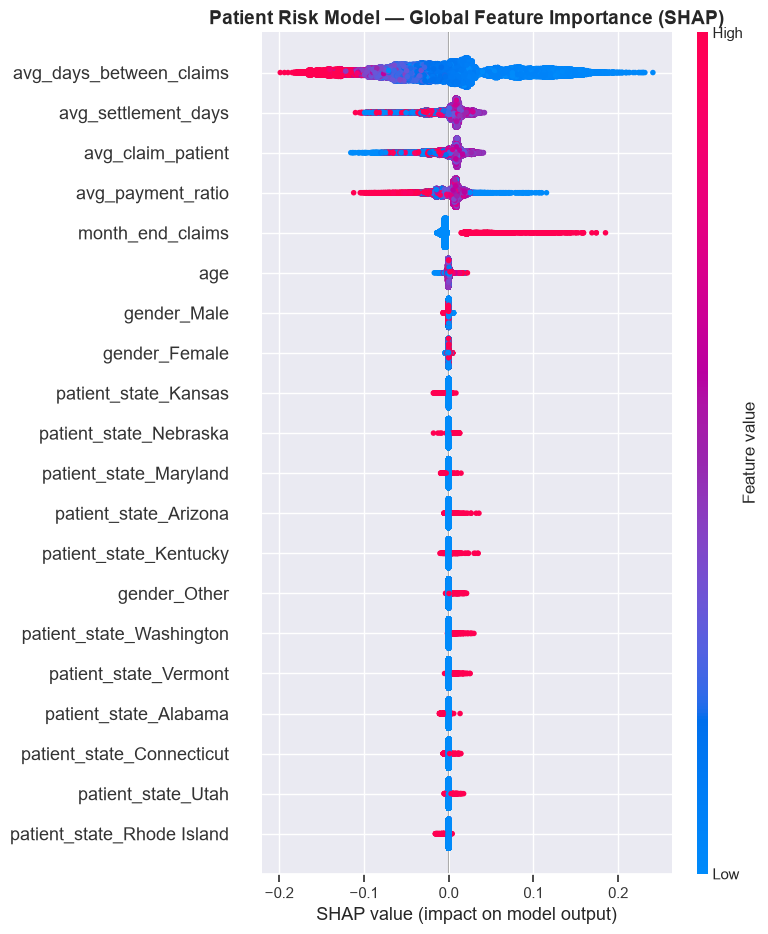
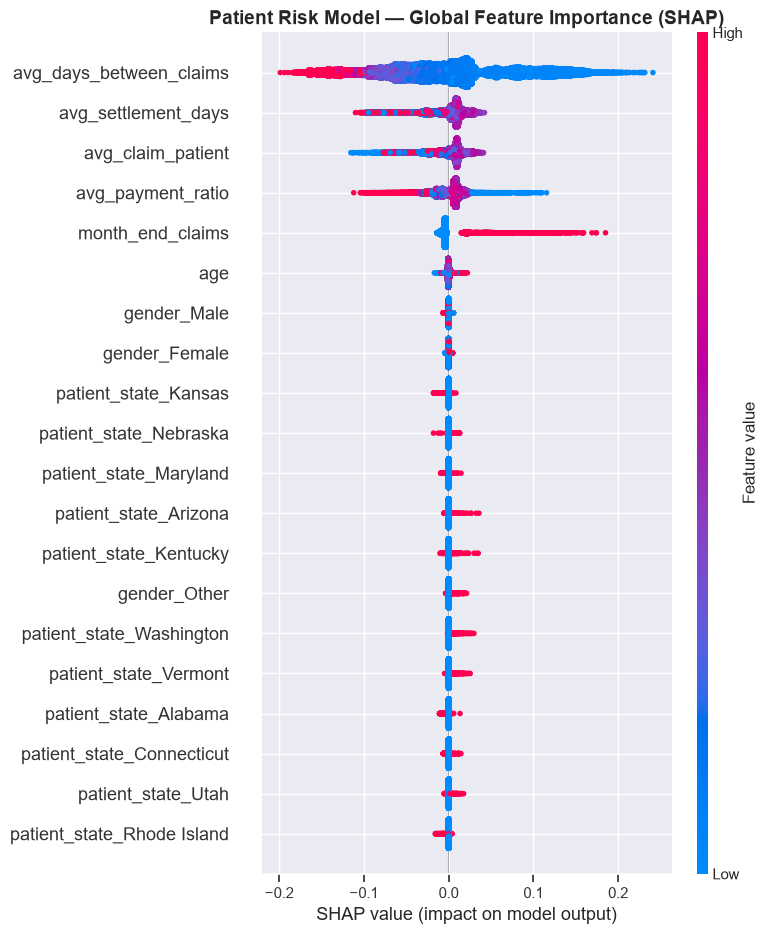
feat: minor updates

Changed region(s): [[0.4375, 0.0621, 0.625, 0.2173], [0.5625, 0.2794, 0.5938, 0.4036]]

diff --git a/reports/claim_127458.md b/reports/claim_127458.md
@@ -4,7 +4,7 @@
 **Claim Date:** 2025-01-31
 **Specialty:** Orthopedic
 **Claim Amount:** $33,808.00
-**Generated:** 2026-06-30 11:09
+**Generated:** 2026-06-30 11:26
 
 ---
 

diff --git a/reports/claim_130651.md b/reports/claim_130651.md
@@ -4,7 +4,7 @@
 **Claim Date:** 2023-11-30
 **Specialty:** General Practitioner
 **Claim Amount:** $39,374.00
-**Generated:** 2026-06-30 11:09
+**Generated:** 2026-06-30 11:26
 
 ---
 

diff --git a/reports/claim_43569.md b/reports/claim_43569.md
@@ -4,7 +4,7 @@
 **Claim Date:** 2023-03-31
 **Specialty:** Oncologist
 **Claim Amount:** $24,954.00
-**Generated:** 2026-06-30 11:09
+**Generated:** 2026-06-30 11:26
 
 ---
 

diff --git a/reports/claim_91787.md b/reports/claim_91787.md
@@ -4,7 +4,7 @@
 **Claim Date:** 2023-08-02
 **Specialty:** Orthopedic
 **Claim Amount:** $45,875.00
-**Generated:** 2026-06-30 11:09
+**Generated:** 2026-06-30 11:26
 
 ---
 

diff --git a/reports/claim_96870.md b/reports/claim_96870.md
@@ -4,7 +4,7 @@
 **Claim Date:** 2024-08-09
 **Specialty:** Orthopedic
 **Claim Amount:** $219,566.06
-**Generated:** 2026-06-30 11:09
+**Generated:** 2026-06-30 11:26
 
 ---
 